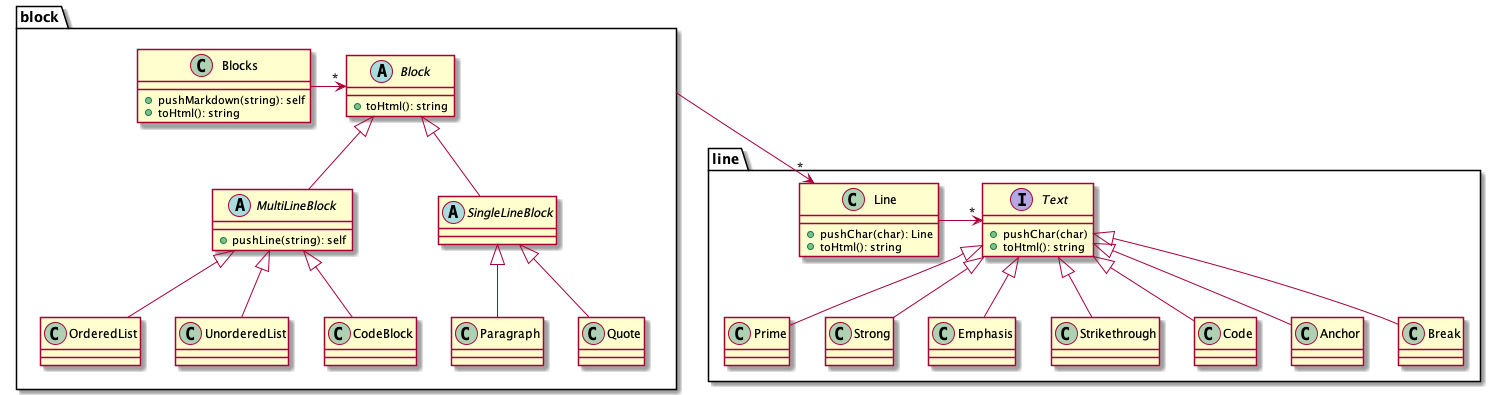
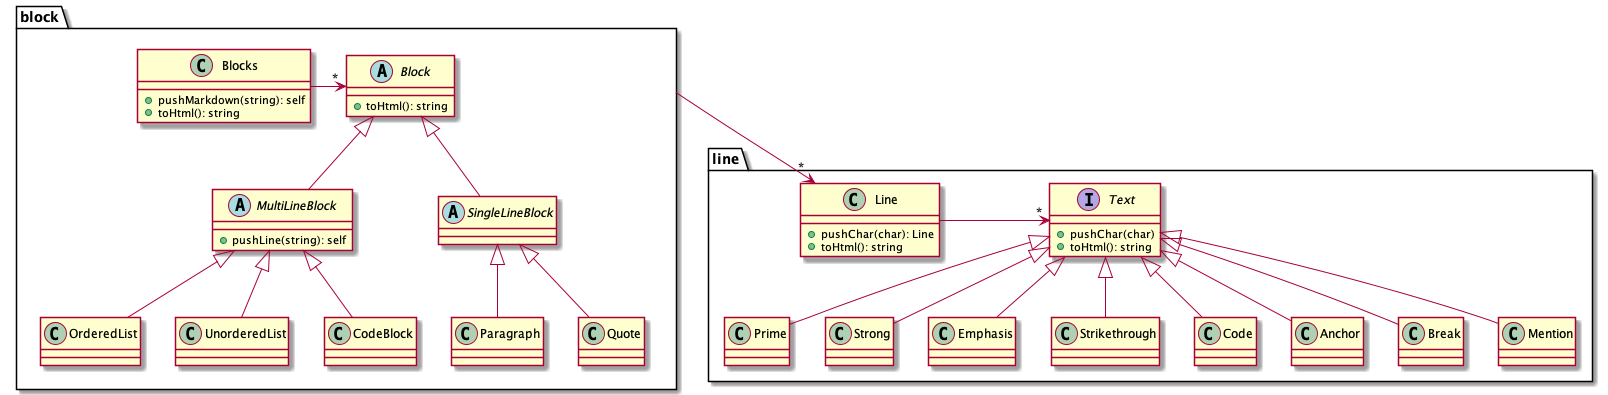
guard mention.

diff --git a/src/line.ts b/src/line.ts
@@ -8,6 +8,8 @@ export class Line {
     constructor(markdown: string) {
         if (Break.isApplicable(markdown)) {
             this.texts.push(new Break(markdown))
+        } else if (Mention.isApplicable(markdown)) {
+            this.texts.push(new Mention(markdown))
         } else {
             markdown.split('').reduce((acc: Line, char: string) => acc.pushChar(char), this).finish()
         }
@@ -187,5 +189,15 @@ class Break extends Text {
 
     toHtml(): string {
         return '<br>'
+    }
+}
+
+class Mention extends Text {
+    static isApplicable(char: string): boolean {
+        return char.startsWith('<ts-mention')
+    }
+
+    toHtml(): string {
+        return this.chars
     }
 }

diff --git a/src/test.ts b/src/test.ts
@@ -2,6 +2,8 @@ import {apply} from './converter'
 
 const editing = `
 
+<ts-mention bla bla bla>@hoge</ts-mention>
+
 &gt; ほげぇ
 &gt; \`hoge\` を 42 にする
 
@@ -24,6 +26,8 @@ console.log(n)
 `.split('\n').map(s => `<p>${s}</p>`).join('')
 
 const exp = `
+<p><ts-mention bla bla bla>@hoge</ts-mention></p>
+<p><br></p>
 <blockquote>ほげぇ</blockquote>
 <blockquote><code>hoge</code> を 42 にする</blockquote>
 <p><br></p>

diff --git a/src/converter.ts b/src/converter.ts
@@ -1,7 +1,7 @@
 import {Blocks} from './block'
 
 export function apply(editing: string): string {
-    return editing
+    return editing.trim()
         .replace(/<p>/g, '')
         .replace(/<\/p>/g, '\n')
         .trim().split('\n')
